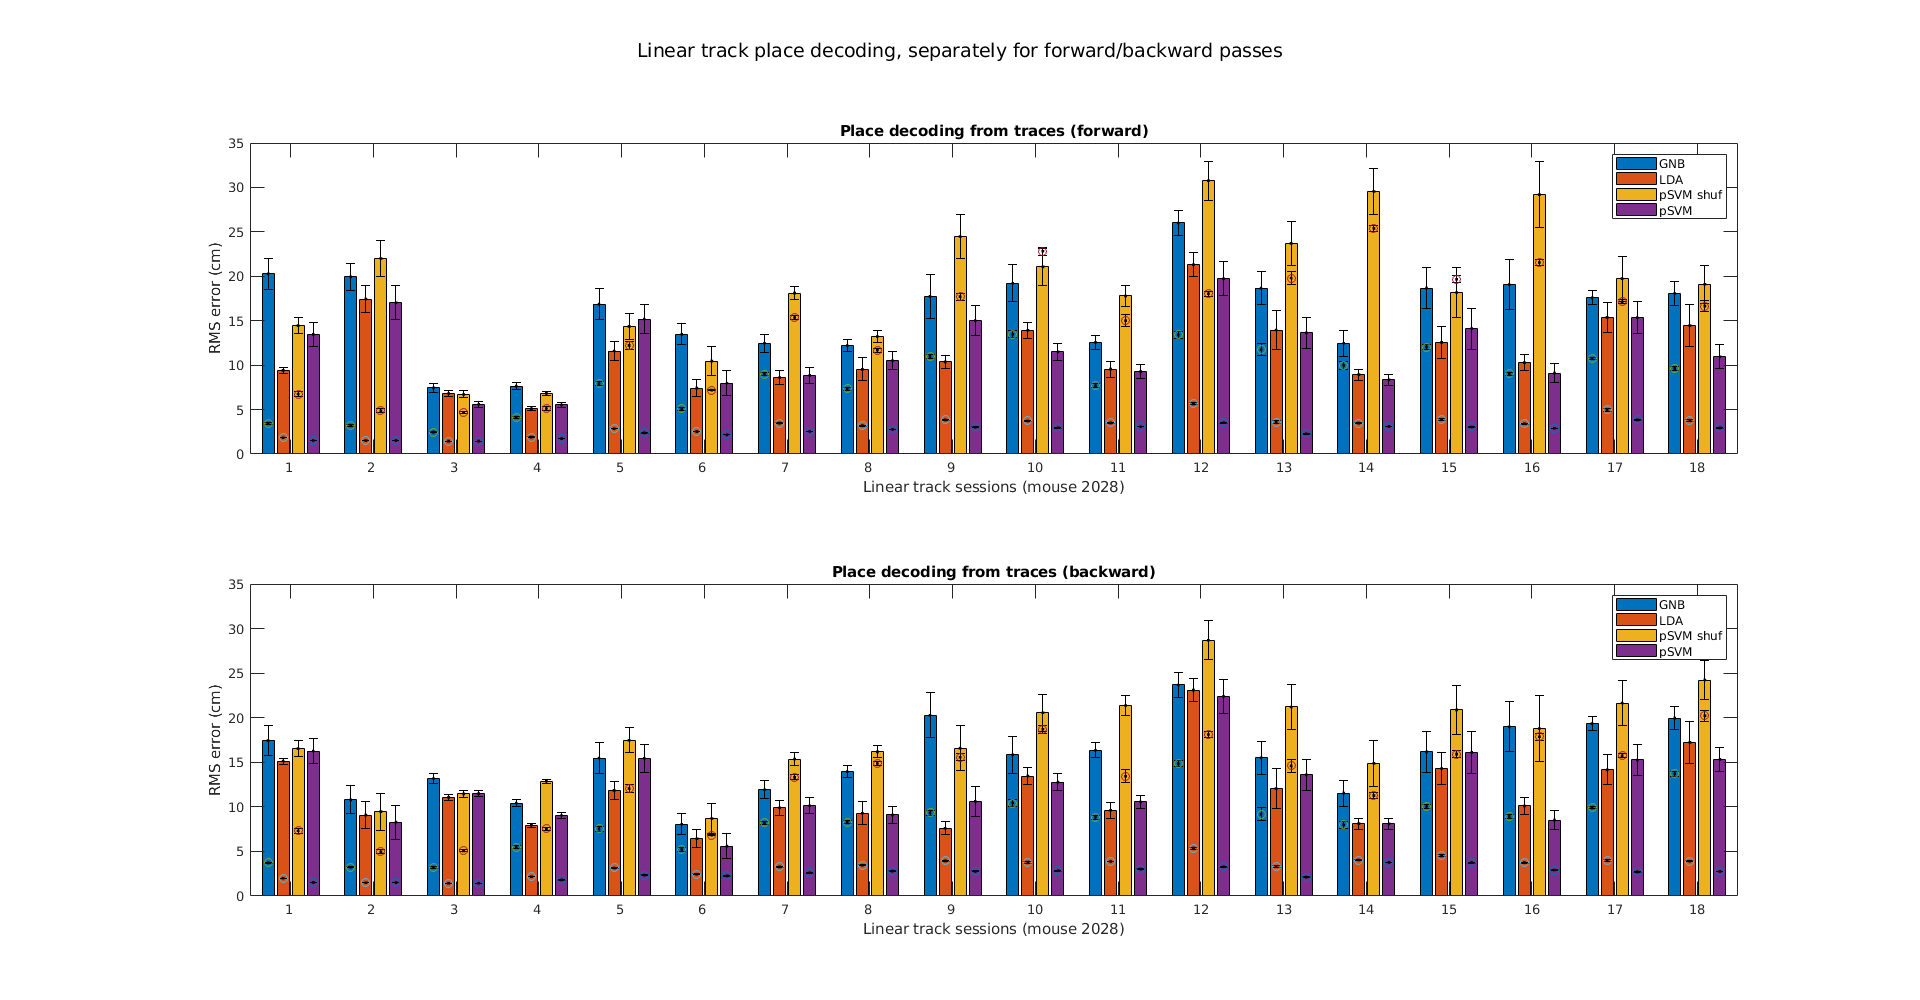
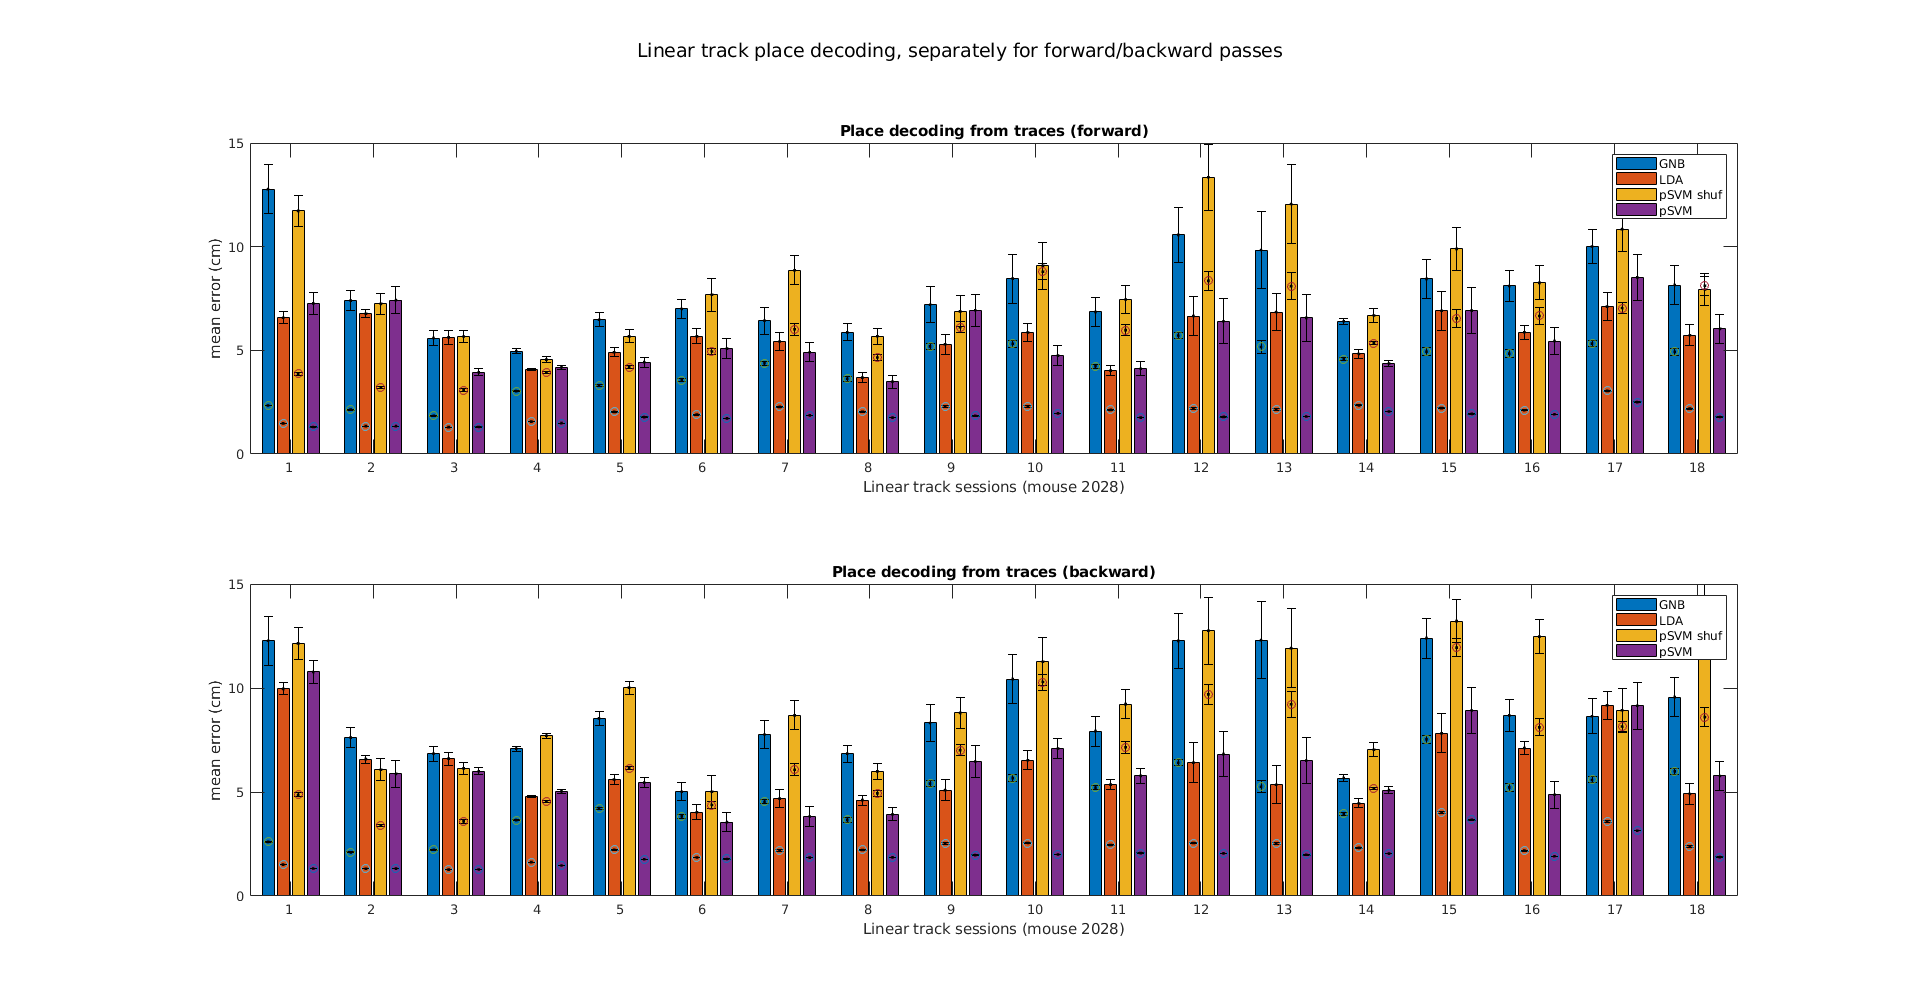
some mo chages

diff --git a/linear_track_decoding.m b/linear_track_decoding.m
@@ -118,7 +118,7 @@ ylabel('mean error (cm)');
 title('Place decoding from traces (forward)');
 set(gca, 'XTickLabel', res.dims_meaning{4});
 set(gca, 'XTick', 1:res.size(4));
-ylim([0 35]);
+ylim([0 15]);
 
 subplot(2,1,2);
 errnbar(squeeze(mean_errs(1,1,:,:,2,1)).', squeeze(errb_errs(1,1,:,:,1)).');
@@ -130,7 +130,7 @@ ylabel('mean error (cm)');
 title('Place decoding from traces (backward)');
 set(gca, 'XTickLabel', res.dims_meaning{4});
 set(gca, 'XTick', 1:res.size(4));
-ylim([0 35]);
+ylim([0 15]);
 
 suptitle('Linear track place decoding, separately for forward/backward passes');
 %% DIAGNOSTIC: DIRECTION SELECTION
